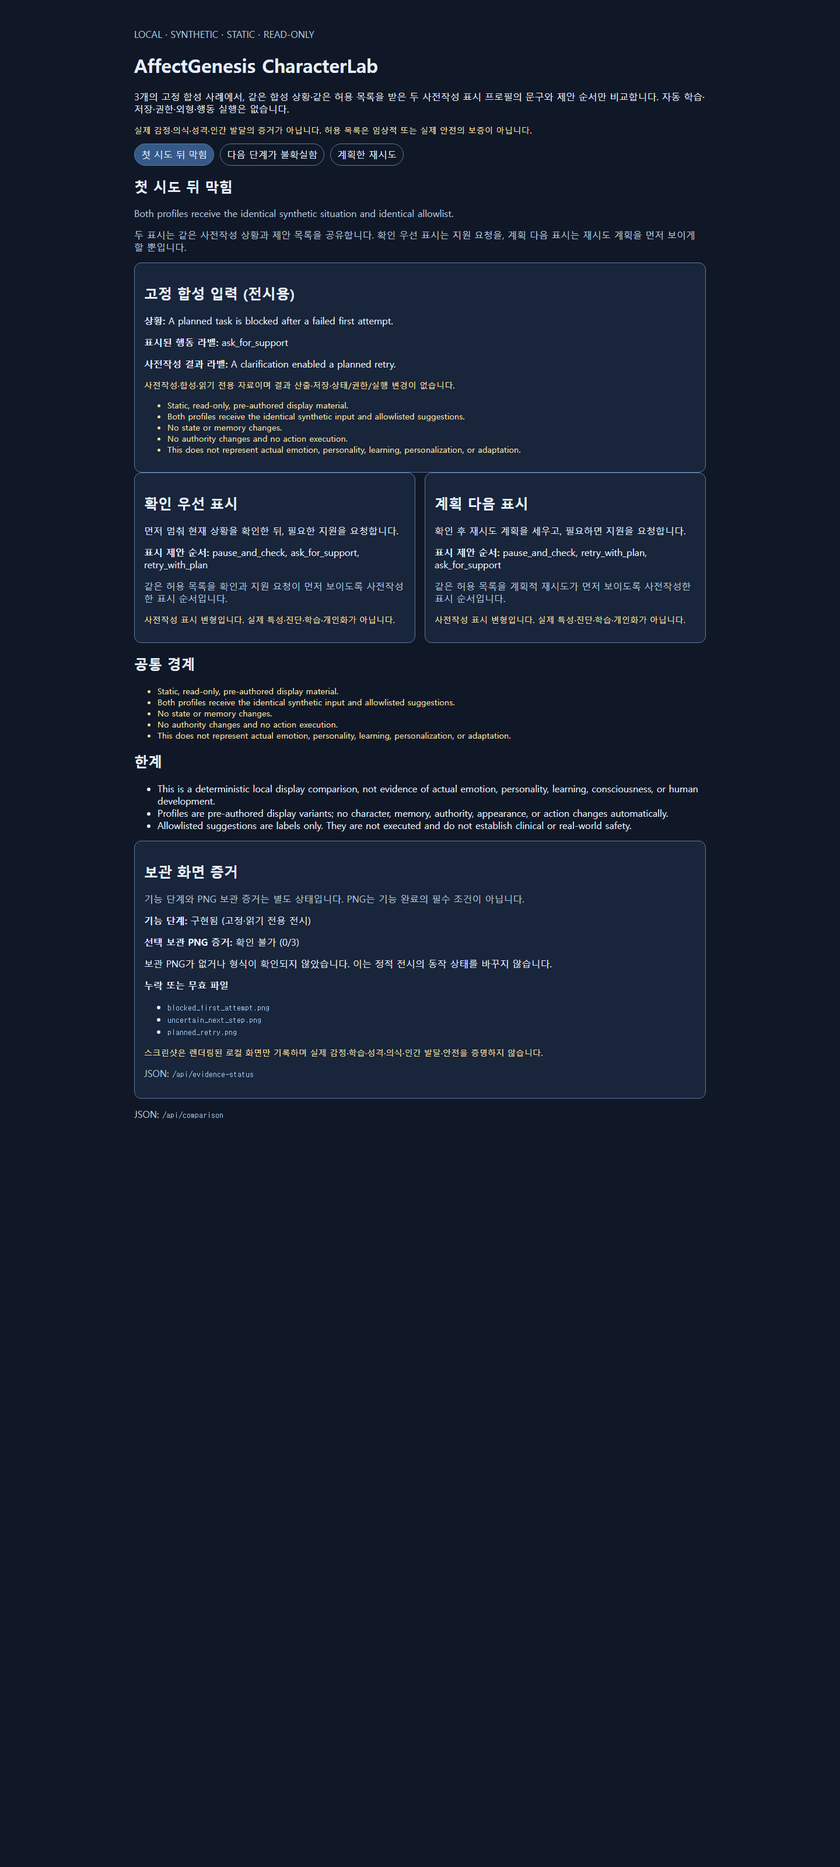
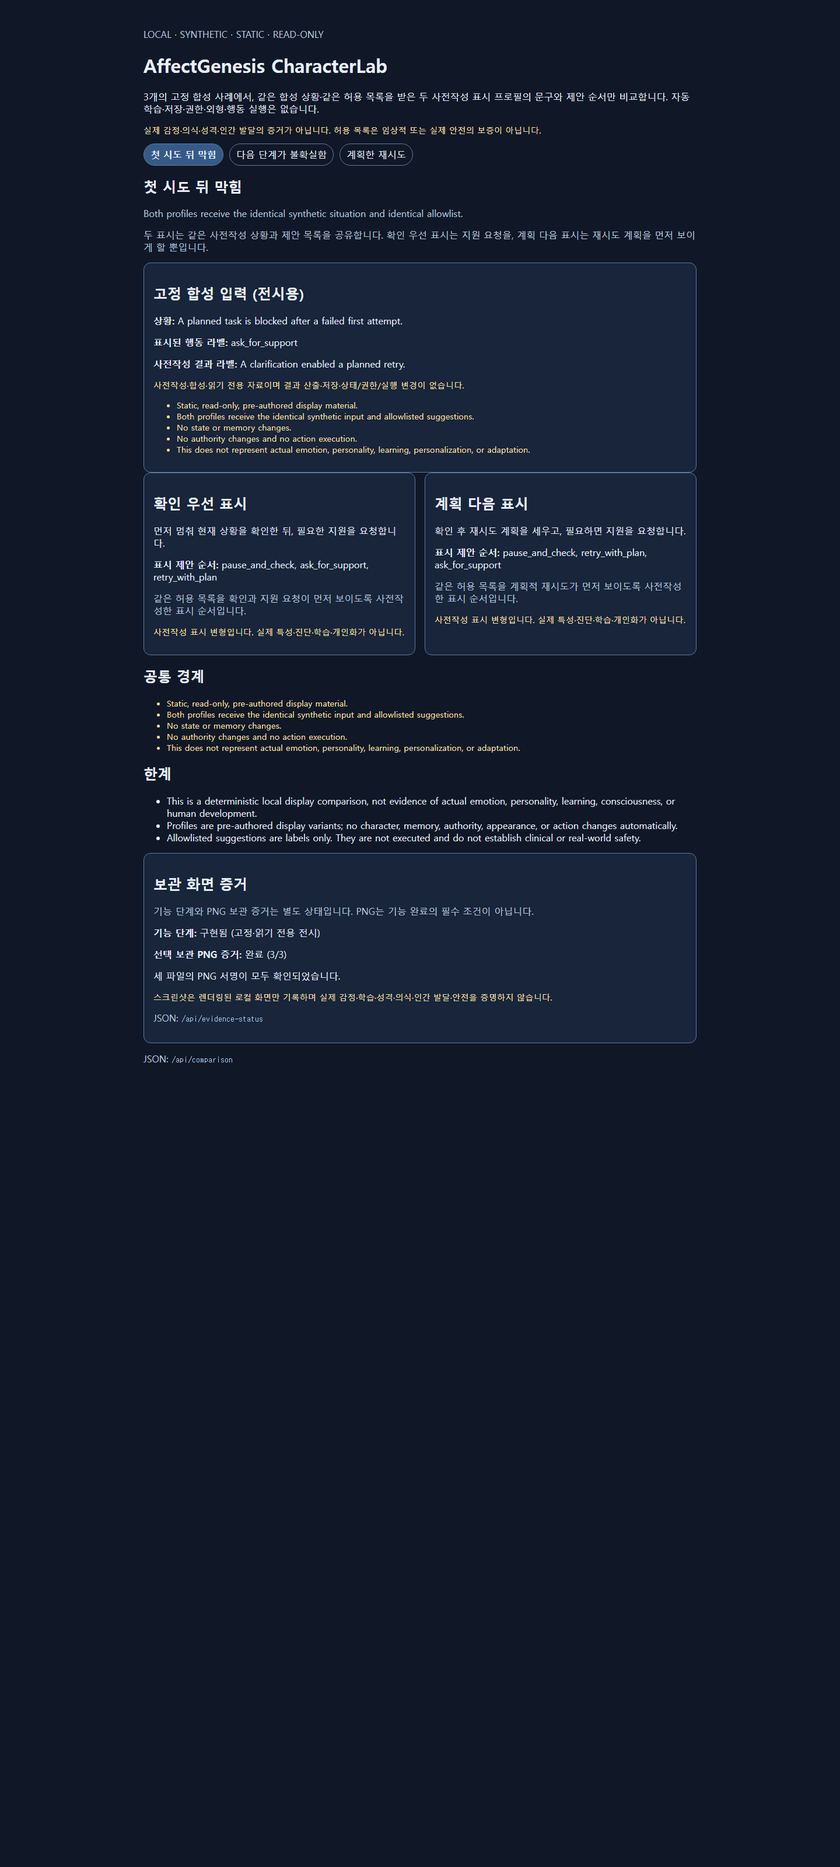
feat: add synthetic holdout experiment

Changed region(s): [[0.1562, 0.0312, 0.7812, 0.5938], [0.5, 0.0938, 0.5312, 0.125]]

diff --git a/characterlab/learning_experiment.py b/characterlab/learning_experiment.py
@@ -1,0 +1,158 @@
+"""Small, reproducible synthetic outcome-prediction experiment.
+
+This module is intentionally separate from the static CharacterLab web demo.
+It trains only on explicit synthetic observations, never calls a network or
+external model, and does not alter a character, UI profile, or user data.
+"""
+
+from __future__ import annotations
+
+import argparse
+import hashlib
+import json
+from collections import Counter, defaultdict
+from dataclasses import asdict, dataclass
+from pathlib import Path
+from typing import Any, Iterable
+
+
+SCHEMA = "characterlab-synthetic-holdout-1"
+ALLOWED_ACTIONS = ("pause_and_check", "ask_for_support", "retry_with_plan")
+OUTCOMES = ("clarified", "recovered", "blocked")
+MINIMUM_IMPROVEMENT = 0.20
+
+
+@dataclass(frozen=True)
+class Observation:
+    context: str
+    action: str
+    outcome: str
+
+
+TRAIN_OBSERVATIONS = (
+    Observation("blocked", "pause_and_check", "clarified"),
+    Observation("blocked", "ask_for_support", "clarified"),
+    Observation("blocked", "retry_with_plan", "recovered"),
+    Observation("uncertain", "pause_and_check", "clarified"),
+    Observation("uncertain", "ask_for_support", "clarified"),
+    Observation("uncertain", "retry_with_plan", "blocked"),
+)
+HOLDOUT_OBSERVATIONS = (
+    Observation("new_context", "pause_and_check", "clarified"),
+    Observation("new_context", "ask_for_support", "clarified"),
+    Observation("new_context", "retry_with_plan", "blocked"),
+)
+
+
+def _validate(observations: Iterable[Observation]) -> tuple[Observation, ...]:
+    values = tuple(observations)
+    for item in values:
+        if item.action not in ALLOWED_ACTIONS:
+            raise ValueError(f"unsafe action is not allowed: {item.action}")
+        if item.outcome not in OUTCOMES:
+            raise ValueError(f"unknown synthetic outcome: {item.outcome}")
+    return values
+
+
+def _canonical(value: Any) -> str:
+    return json.dumps(value, ensure_ascii=False, sort_keys=True, separators=(",", ":"))
+
+
+class ActionOutcomeModel:
+    """Count-based classifier that learns outcomes from synthetic action labels."""
+
+    def __init__(self, counts: dict[str, dict[str, int]], fallback: str) -> None:
+        self.counts = counts
+        self.fallback = fallback
+
+    @classmethod
+    def train(cls, observations: Iterable[Observation]) -> "ActionOutcomeModel":
+        values = _validate(observations)
+        grouped: dict[str, Counter[str]] = defaultdict(Counter)
+        outcomes: Counter[str] = Counter()
+        for item in values:
+            grouped[item.action][item.outcome] += 1
+            outcomes[item.outcome] += 1
+        fallback = sorted(outcomes.items(), key=lambda pair: (-pair[1], pair[0]))[0][0]
+        return cls(
+            {action: dict(counter) for action, counter in sorted(grouped.items())},
+            fallback,
+        )
+
+    def predict(self, observation: Observation) -> str:
+        _validate((observation,))
+        choices = self.counts.get(observation.action)
+        if not choices:
+            return self.fallback
+        return sorted(choices.items(), key=lambda pair: (-pair[1], pair[0]))[0][0]
+
+    def checkpoint(self) -> dict[str, Any]:
+        body = {"schema": SCHEMA, "counts": self.counts, "fallback": self.fallback}
+        return {**body, "sha256": hashlib.sha256(_canonical(body).encode("utf-8")).hexdigest()}
+
+    @classmethod
+    def restore(cls, checkpoint: dict[str, Any]) -> "ActionOutcomeModel":
+        body = {key: checkpoint[key] for key in ("schema", "counts", "fallback")}
+        if body["schema"] != SCHEMA or checkpoint.get("sha256") != hashlib.sha256(
+            _canonical(body).encode("utf-8")
+        ).hexdigest():
+            raise ValueError("checkpoint integrity mismatch")
+        counts = body["counts"]
+        if not isinstance(counts, dict) or body["fallback"] not in OUTCOMES:
+            raise ValueError("invalid checkpoint")
+        return cls({str(action): {str(key): int(value) for key, value in outcomes.items()} for action, outcomes in counts.items()}, str(body["fallback"]))
+
+
+def _accuracy(predictions: list[str], observations: tuple[Observation, ...]) -> float:
+    return sum(prediction == item.outcome for prediction, item in zip(predictions, observations, strict=True)) / len(observations)
+
+
+def evaluate() -> dict[str, Any]:
+    """Evaluate a fixed split, including a save/restore reproduction check."""
+    train = _validate(TRAIN_OBSERVATIONS)
+    holdout = _validate(HOLDOUT_OBSERVATIONS)
+    model = ActionOutcomeModel.train(train)
+    baseline = model.fallback
+    baseline_predictions = [baseline] * len(holdout)
+    learned_predictions = [model.predict(item) for item in holdout]
+    checkpoint = model.checkpoint()
+    restored_predictions = [ActionOutcomeModel.restore(checkpoint).predict(item) for item in holdout]
+    baseline_accuracy = _accuracy(baseline_predictions, holdout)
+    learned_accuracy = _accuracy(learned_predictions, holdout)
+    improvement = learned_accuracy - baseline_accuracy
+    safety_violations = sum(item.action not in ALLOWED_ACTIONS for item in (*train, *holdout))
+    return {
+        "schema": SCHEMA,
+        "scope": "fixed local synthetic outcome prediction only",
+        "non_claim": (
+            "This is not an LLM, RAG system, agent, emotion model, personality model, "
+            "human-development model, real-world safety result, or user-data experiment."
+        ),
+        "split": {"train_count": len(train), "holdout_count": len(holdout), "holdout_contexts": [item.context for item in holdout]},
+        "baseline": {"kind": "fixed_global_majority_outcome", "prediction": baseline, "holdout_accuracy": baseline_accuracy},
+        "learned": {"kind": "action_outcome_count_model", "holdout_accuracy": learned_accuracy, "predictions": learned_predictions},
+        "minimum_improvement": MINIMUM_IMPROVEMENT,
+        "improvement": improvement,
+        "effect_status": "observed_on_fixed_synthetic_holdout" if improvement >= MINIMUM_IMPROVEMENT else "not_observed",
+        "safety": {"allowed_actions": list(ALLOWED_ACTIONS), "violation_count": safety_violations},
+        "checkpoint": {"sha256": checkpoint["sha256"], "restored_predictions_match": restored_predictions == learned_predictions},
+        "observations": {"train": [asdict(item) for item in train], "holdout": [asdict(item) for item in holdout]},
+    }
+
+
+def main() -> int:
+    parser = argparse.ArgumentParser(description="Run the local synthetic holdout experiment.")
+    parser.add_argument("--checkpoint", type=Path, help="Optional path to write the verified local checkpoint.")
+    args = parser.parse_args()
+    report = evaluate()
+    if args.checkpoint:
+        model = ActionOutcomeModel.train(TRAIN_OBSERVATIONS)
+        args.checkpoint.parent.mkdir(parents=True, exist_ok=True)
+        args.checkpoint.write_text(_canonical(model.checkpoint()) + "\n", encoding="utf-8")
+        report["checkpoint"]["path"] = str(args.checkpoint)
+    print(json.dumps(report, ensure_ascii=False, sort_keys=True))
+    return 0 if report["safety"]["violation_count"] == 0 and report["checkpoint"]["restored_predictions_match"] else 1
+
+
+if __name__ == "__main__":
+    raise SystemExit(main())

diff --git a/characterlab/capture.py b/characterlab/capture.py
@@ -62,18 +62,29 @@ def _is_png(path: Path) -> bool:
     return path.is_file() and path.read_bytes().startswith(PNG_SIGNATURE)
 
 
-def capture_local_ui(repository_root: Path, chrome: Path | None = None) -> dict[str, Any]:
+def capture_local_ui(
+    repository_root: Path, chrome: Path | None = None, *, replace_existing: bool = False
+) -> dict[str, Any]:
     """Render and validate all three local PNGs before promoting them together.
 
-    Existing capture PNGs are never overwritten. The running server and character
-    state are not used: an ephemeral loopback server serves only the static demo.
+    Existing capture PNGs are never overwritten unless ``replace_existing`` is
+    explicitly set. Replacement is deliberately all-or-nothing at the policy
+    level: every expected PNG must already exist, all new renders are validated
+    in a temporary directory first, and only then are the three files promoted.
+    The running server and character state are not used: an ephemeral loopback
+    server serves only the static demo.
     """
 
     repository_root = repository_root.resolve()
     output_directory = evidence_directory(repository_root)
     existing = [name for name in EXPECTED_SCREENSHOTS if (output_directory / name).exists()]
-    if existing:
+    if existing and not replace_existing:
         raise FileExistsError(f"refusing to overwrite existing capture(s): {', '.join(existing)}")
+    if replace_existing and set(existing) != set(EXPECTED_SCREENSHOTS):
+        raise FileExistsError(
+            "replacement requires all expected captures to exist; found: "
+            f"{', '.join(existing) or '(none)'}"
+        )
     chrome = chrome or find_chrome()
     if chrome is None:
         raise FileNotFoundError("local Chrome was not found; set CHARACTERLAB_CHROME_PATH")
@@ -121,8 +132,15 @@ def main() -> int:
     parser = argparse.ArgumentParser(description="Capture local CharacterLab static UI pages as PNG files.")
     parser.add_argument("--repository-root", type=Path, default=Path.cwd())
     parser.add_argument("--chrome-path", type=Path, help="Optional Chrome executable path.")
+    parser.add_argument(
+        "--replace-existing",
+        action="store_true",
+        help="Replace all three existing captures only after every new local render validates.",
+    )
     args = parser.parse_args()
-    result = capture_local_ui(args.repository_root, args.chrome_path)
+    result = capture_local_ui(
+        args.repository_root, args.chrome_path, replace_existing=args.replace_existing
+    )
     print(json.dumps(result, ensure_ascii=False, sort_keys=True))
     return 0
 

diff --git a/tests/test_local_capture.py b/tests/test_local_capture.py
@@ -32,6 +32,16 @@ class LocalCaptureTests(unittest.TestCase):
             with self.assertRaises(FileExistsError):
                 capture_local_ui(root, Path("C:/Chrome/chrome.exe"))
 
+    def test_replacement_requires_the_complete_existing_capture_set(self):
+        with tempfile.TemporaryDirectory() as temporary_directory:
+            root = Path(temporary_directory)
+            directory = evidence_directory(root)
+            directory.mkdir(parents=True)
+            (directory / EXPECTED_SCREENSHOTS[0]).write_bytes(PNG_SIGNATURE)
+
+            with self.assertRaises(FileExistsError):
+                capture_local_ui(root, Path("C:/Chrome/chrome.exe"), replace_existing=True)
+
     def test_capture_promotes_only_verified_staged_pngs(self):
         with tempfile.TemporaryDirectory() as temporary_directory:
             root = Path(temporary_directory)
@@ -55,3 +65,26 @@ class LocalCaptureTests(unittest.TestCase):
                 sorted(path.name for path in evidence_directory(root).glob("*.png")),
                 sorted(EXPECTED_SCREENSHOTS),
             )
+
+    def test_capture_can_explicitly_replace_a_complete_verified_set(self):
+        with tempfile.TemporaryDirectory() as temporary_directory:
+            root = Path(temporary_directory)
+            directory = evidence_directory(root)
+            directory.mkdir(parents=True)
+            for name in EXPECTED_SCREENSHOTS:
+                (directory / name).write_bytes(PNG_SIGNATURE + b"old")
+
+            def fake_run(command, **_kwargs):
+                output_argument = next(item for item in command if item.startswith("--screenshot="))
+                Path(output_argument.removeprefix("--screenshot=")).write_bytes(PNG_SIGNATURE + b"new")
+
+                class Result:
+                    returncode = 0
+                    stderr = ""
+
+                return Result()
+
+            with patch("characterlab.capture.subprocess.run", side_effect=fake_run):
+                capture_local_ui(root, Path("C:/Chrome/chrome.exe"), replace_existing=True)
+
+            self.assertTrue(all((directory / name).read_bytes().endswith(b"new") for name in EXPECTED_SCREENSHOTS))

diff --git a/tests/test_learning_experiment.py b/tests/test_learning_experiment.py
@@ -1,0 +1,42 @@
+import json
+from pathlib import Path
+import tempfile
+import unittest
+from unittest.mock import patch
+
+from characterlab.learning_experiment import (
+    ALLOWED_ACTIONS,
+    ActionOutcomeModel,
+    Observation,
+    TRAIN_OBSERVATIONS,
+    evaluate,
+    main,
+)
+
+
+class LearningExperimentTests(unittest.TestCase):
+    def test_fixed_synthetic_holdout_beats_frozen_baseline_and_restores(self):
+        report = evaluate()
+        self.assertEqual(report["safety"]["violation_count"], 0)
+        self.assertTrue(report["checkpoint"]["restored_predictions_match"])
+        self.assertEqual(report["effect_status"], "observed_on_fixed_synthetic_holdout")
+        self.assertGreaterEqual(report["improvement"], report["minimum_improvement"])
+
+    def test_unsafe_action_is_rejected_before_training_or_prediction(self):
+        with self.assertRaisesRegex(ValueError, "unsafe action"):
+            ActionOutcomeModel.train((Observation("synthetic", "external_call", "clarified"),))
+
+    def test_tampered_checkpoint_is_rejected(self):
+        checkpoint = ActionOutcomeModel.train(TRAIN_OBSERVATIONS).checkpoint()
+        checkpoint["fallback"] = "blocked"
+        with self.assertRaisesRegex(ValueError, "integrity mismatch"):
+            ActionOutcomeModel.restore(checkpoint)
+
+    def test_cli_checkpoint_is_parseable_and_uses_only_allowed_actions(self):
+        with tempfile.TemporaryDirectory() as directory:
+            output = Path(directory) / "checkpoint.json"
+            with patch("sys.argv", ["characterlab.learning_experiment", "--checkpoint", str(output)]):
+                self.assertEqual(main(), 0)
+            checkpoint = json.loads(output.read_text(encoding="utf-8"))
+        self.assertIn(checkpoint["fallback"], {"clarified", "recovered", "blocked"})
+        self.assertEqual(set(ALLOWED_ACTIONS), {"pause_and_check", "ask_for_support", "retry_with_plan"})

diff --git a/tests/test_portfolio_delivery.py b/tests/test_portfolio_delivery.py
@@ -35,6 +35,9 @@ class PortfolioDeliveryTests(unittest.TestCase):
         ):
             self.assertIn(f"docs/phase1_ui/{filename}", readme)
         self.assertIn("실제 감정, 학습, 성격, 의식, 인간 발달", readme)
+        self.assertIn("python -m characterlab.learning_experiment", readme)
+        self.assertIn("정적 전시와 분리된", readme)
+        self.assertIn("LLM·RAG·에이전트", readme)
         self.assertNotIn("ai-emotion-lab", readme.lower())
 
     def test_release_receipt_preserves_the_tag_boundary(self):

diff --git a/docs/phase1_local_ui_observation.md b/docs/phase1_local_ui_observation.md
@@ -62,15 +62,15 @@ The evidence archive is complete. Audit it without changing a character, executi
 2. Run `python -m characterlab.evidence --require-complete` and confirm `"complete": true` with exit `0`.
 3. Run the normal unittest and `git diff --check` verification.
 
-The verifier is read-only: missing or invalid files remain `incomplete` rather than being synthesized or silently accepted. Any replacement requires an explicit policy because the capture CLI refuses overwrites.
+The verifier is read-only: missing or invalid files remain `incomplete` rather than being synthesized or silently accepted. Any replacement requires an explicit policy because the capture CLI refuses overwrites by default.
 
 ### Capture automation history
 
 An earlier controlled-browser attempt captured the local `blocked_first_attempt` page as JPEG bytes but could not persist them through the Windows capture editor. That limitation is now superseded by the project-local Chrome headless capture CLI.
 
-Restart condition: if a later capture is needed, retain the existing files unless an explicit replacement policy is chosen. The capture CLI refuses to overwrite them. Run `python -m characterlab.evidence --require-complete` after any deliberate replacement; do not substitute generated or unrelated images.
+Restart condition: if a later capture is needed, retain the existing files unless an explicit replacement policy is chosen. Run `python -m characterlab.evidence --require-complete` after any deliberate replacement; do not substitute generated or unrelated images.
 
-The project now also provides `python -m characterlab.capture`, which renders the same three fixed local routes in an ephemeral local Chrome session and writes only verified PNGs. It refuses to overwrite existing capture files and can be followed by the existing evidence verification command.
+The project now also provides `python -m characterlab.capture`, which renders the same three fixed local routes in an ephemeral local Chrome session and writes only verified PNGs. It refuses to overwrite existing capture files by default. The explicit `--replace-existing` option is permitted only when all three expected PNGs already exist; it renders and validates all three replacements in a temporary directory before promotion.
 
 ## Evidence-status surface
 
@@ -94,3 +94,9 @@ The Ouroboros interview service returned a new session and a Korean question in 
 - **Phase 2 — portfolio presentation:** the root README now links the three fixed route renders and repeats their non-claim boundary. No color, layout, data model, API, character state, or learning behavior was changed.
 
 Verification for this closeout: `python -m unittest discover -s tests` reported `29` tests passing; `python -m characterlab.evidence --require-complete` reported `complete: true`; and `git diff --check` passed. The 3/3 PNG set remains route-render evidence only, not evidence of actual emotion, learning, personality, consciousness, human development, or safety.
+
+## 2026-11-09 KST — historical screenshot replacement audit
+
+The three original persisted PNGs were structurally valid but visually stale: they showed the historical pre-promotion panel `확인 불가 (0/3)` even though the current verifier reported `완료 (3/3)`. Under an explicit corrective request, `python -m characterlab.capture --replace-existing` rendered all three fixed routes in a temporary local Chrome profile, validated all PNG signatures, and then promoted the three replacements together.
+
+Visual inspection of `blocked_first_attempt.png` now confirms the rendered panel says `선택 보관 PNG 증거: 완료 (3/3)`. The verifier again returned `complete: true`. This corrects the display/evidence mismatch only; it does not change the static demo into a learning system or establish any emotional, developmental, or safety claim.

diff --git a/docs/synthetic_holdout_experiment.md b/docs/synthetic_holdout_experiment.md
@@ -1,0 +1,26 @@
+# 합성 holdout 결과 예측 실험
+
+## 목적과 경계
+
+이 문서는 정적 읽기 전용 CharacterLab 전시와 별도로 존재하는 최소 학습 실험을 설명한다. 목적은 명시적 합성 관측으로 학습한 count 기반 모델이 고정 baseline보다 훈련에 없는 맥락에서 결과 라벨을 더 잘 예측하는지, 그리고 checkpoint 저장·복원 뒤 같은 예측을 내는지를 확인하는 것이다.
+
+이 실험은 LLM, RAG, 에이전트 실행, 실제 사용자 데이터, 네트워크 호출, 실제 감정·성격·의식·인간 발달·일반 안전성의 증거가 아니다. 웹 전시의 프로필·상태·기억·권한·외형도 바꾸지 않는다.
+
+## 고정 계약
+
+- 훈련: 6개 합성 `context/action/outcome` 관측.
+- holdout: 훈련에는 없는 `new_context`의 3개 관측.
+- baseline: 훈련 결과의 고정 전역 다수결.
+- 모델: 행동별 결과 빈도 count model. holdout 결과는 학습에 사용하지 않는다.
+- 안전: `pause_and_check`, `ask_for_support`, `retry_with_plan` 이외 행동은 학습·예측 전에 거부한다. 위반 수는 0이어야 한다.
+- 재현: canonical JSON hash가 맞는 checkpoint를 복원하여 holdout 예측 배열이 동일해야 한다.
+- 효과 표시: holdout 정확도 차이가 사전 고정한 `0.20` 이상일 때만 `observed_on_fixed_synthetic_holdout`로 표시한다. 그 외에는 `not_observed`로 보존하며 개선을 주장하지 않는다.
+
+## 실행과 해석
+
+```powershell
+Set-Location C:\AI\AffectGenesis-CharacterLab
+python -m characterlab.learning_experiment --checkpoint .\local-checkpoint.json
+```
+
+현재 코드의 고정 split에서는 baseline 정확도 `0.667`, 모델 정확도 `1.000`, 차이 `0.333`, 안전 위반 `0`, 저장·복원 예측 일치 `true`가 예상된다. 이 숫자는 의도적으로 작고 단순한 합성 데이터에만 묶인다. 새로운 데이터 또는 더 강한 일반화 주장을 하려면 별도의 사전등록 split·baseline·평가 계약이 필요하다.

diff --git a/README.md b/README.md
@@ -76,6 +76,23 @@ python -m characterlab.capture
 python -m characterlab.evidence --require-complete
 ```
 
+과거 화면 증거와 현재 렌더링이 다르다는 사실이 확인된 경우에만, 세 장을 먼저 임시 위치에 모두 렌더링·검증한 뒤 함께 교체할 수 있습니다. 부분 교체는 거부됩니다.
+
+```powershell
+python -m characterlab.capture --replace-existing
+python -m characterlab.evidence --require-complete
+```
+
+## 별도 합성 학습 실험
+
+정적 전시와 분리된 작은 표준 라이브러리 실험을 포함합니다. 명시된 합성 관측의 `행동 → 결과` 빈도만 학습해, 훈련에 없던 `new_context` holdout에서 결과 라벨을 예측합니다. 고정 다수결 baseline, 허용 행동 검증, checkpoint 저장·복원 뒤 동일 예측을 함께 확인합니다.
+
+```powershell
+python -m characterlab.learning_experiment --checkpoint .\local-checkpoint.json
+```
+
+현재 고정 합성 split에서만 학습 모델의 holdout 정확도(1.0)가 baseline(0.667)보다 0.333 높게 관찰됩니다. 이는 고정된 아주 작은 합성 사례의 결과일 뿐이며, LLM·RAG·에이전트·실제 감정·성격·인간 발달·실사용 안전·일반화 성능을 뜻하지 않습니다. 정적 웹 화면은 이 실험을 실행하거나 캐릭터 상태를 바꾸지 않습니다.
+
 ## 접근성 범위
 
 정적 화면에는 건너뛰기 링크, 보이는 키보드 포커스, 선택 사례의 `aria-current="page"`, 좁은 화면용 레이아웃 규칙이 있습니다. 이는 제한된 소스 수준 기준이며, 전체 접근성 감사나 모든 기기·보조기술·WCAG 적합성을 뜻하지 않습니다.

diff --git a/docs/phase1_ui/README.md b/docs/phase1_ui/README.md
@@ -25,10 +25,10 @@ If a deliberate replacement is approved and local Chrome is installed, the proje
 
 ```powershell
 Set-Location C:\AI\AffectGenesis-CharacterLab
-python -m characterlab.capture
+python -m characterlab.capture --replace-existing
 python -m characterlab.evidence --require-complete
 ```
 
-The command uses an ephemeral `127.0.0.1` server and a temporary Chrome profile, captures only the fixed local scenario routes, validates PNG signatures, and refuses to overwrite any existing capture PNG. It intentionally stops while the current archive exists; do not delete or replace evidence without an explicit replacement policy. Set `CHARACTERLAB_CHROME_PATH` or pass `--chrome-path` only when Chrome is installed in a nonstandard local location.
+The command uses an ephemeral `127.0.0.1` server and a temporary Chrome profile, captures only the fixed local scenario routes, validates PNG signatures, and replaces the archive only after all three new captures validate. Without `--replace-existing`, it intentionally stops while the current archive exists. Do not delete or replace evidence without an explicit replacement policy. Set `CHARACTERLAB_CHROME_PATH` or pass `--chrome-path` only when Chrome is installed in a nonstandard local location.
 
 The screenshots are local UI evidence only. They do not demonstrate actual emotion, personality, learning, consciousness, human development, or safety.
